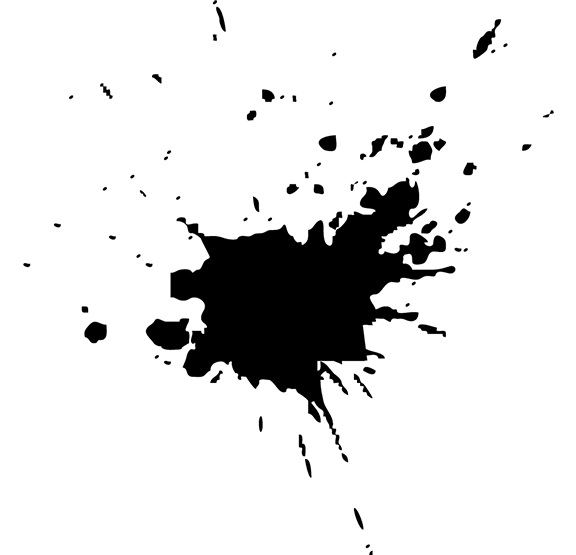
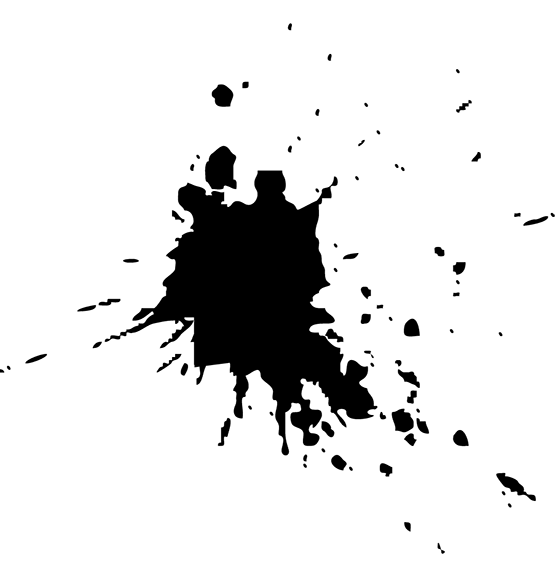
head and arm

diff --git a/styles/main.css b/styles/main.css
@@ -4,39 +4,38 @@
 }
 
 #splash1 {
-     z-index: -100;
+    z-index: -100;
     position: absolute;
     background-size: contain;
     background-repeat: no-repeat;
-    margin-top: 30px;
-    margin-left: 370px;
-    height: 25vh;
-    width: 25vh;
+    margin-top: -10px;
+    margin-left: 270px;
+    height: 250px;
+    width: 250px;
     background-image: url("./images/inksplat1.png");
-
 }
 
 #splash2 {
-     z-index: -100;
+    z-index: -100;
     position: absolute;
     background-size: contain;
     background-repeat: no-repeat;
-    margin-top: 300px;
-    margin-left: 430px;
-    height: 25vh;
-    width: 25vh;
+    margin-top: 240px;
+    margin-left: 400px;
+    height: 250px;
+    width: 250px;
     background-image: url("./images/inksplat2.png")
 }
 
 #splash3 {
-     z-index: -100;
+    z-index: -100;
     position: absolute;
     background-size: contain;
     background-repeat: no-repeat;
-    margin-top: 250px;
-    margin-left: 470px;
-    height: 45vh;
-    width: 65vh;
+    margin-top: 320px;
+    margin-left: 440px;
+    height: 450px;
+    width: 650px;
     background-image: url("./images/inksplat3.png")
 }
 
@@ -87,16 +86,40 @@
 }
 
 .playerPicture {
-    z-index:-10;
+    float: right;
     opacity: 0;
     background-size: contain;
     background-repeat: no-repeat;
-    height: 100%;
-    width: 50vw;
+    min-height: 600px;
+    height: 700px;
+    width: 500px;
+    min-width: 500px;
     position: absolute;
 }
 
+.headInfo {
+    border-width:10px;
+    display: inline-block;
+    border-style: dotted;
+    border-color: transparent;
+    border-radius: 100%;
+    z-index: 10;
+    position: absolute;
+}
+
+.armInfo {
+    border-width:10px;
+    display: inline-block;
+    border-style: dotted;
+    border-color: transparent;
+    border-radius: 100%;
+    z-index: 10;
+    position: absolute;
+}
+
+
 .playerName {
+    z-index: -100;
     top: -100vw;
     height: 100vh;
     width: 14vw;
@@ -107,9 +130,10 @@
 }
 
 .playerName2 {
-    top: 90vh;
-    right:-100vw;
-    height: 10vh;
+    z-index: 100;
+    top: 85vh;
+    right: -100vw;
+    height: 15vh;
     width: 30vw;
     float: right;
     background-size: contain;
@@ -163,32 +187,30 @@ body {
     margin: 0px;
 }
 
-
-/*
-
-
-
-
 #lineInfo {
-    border-bottom: 2px solid red;
-    border-right: 2px solid red;
+    border-width: 0px;
+    position:absolute;
+    z-index: -20;
+    border-width:0px;
+    border-bottom: solid transparent;
+    border-right: solid transparent;
     -moz-transform: skew(-45deg, 0deg);
     -webkit-transform: skew(-45deg, 0deg);
     transform: skew(-45deg, 0deg);
 }
 
-
-#hoverTarget {
-    border-style: dotted;
-    border-color: transparent;
-    border-radius: 100%;
-    z-index: 10;
-    position: absolute;
+.textBox{
+    margin-left:-10px;
+    display:none;
+    position:relative;
+    float:left;
+    border-bottom: 2px solid red;
+    border-right:2px solid red;
 }
 
-#text {
-    display: inline-block;
+.text {
     color: black;
+    text-shadow: -1px 0 white, 0 1px white, 1px 0 white, 0 -1px white;
     -moz-transform: skew(45deg, 0deg);
     -webkit-transform: skew(45deg, 0deg);
     transform: skew(45deg, 0deg);
@@ -207,7 +229,6 @@ body {
     animation-delay: 3s;
 }
 
-
 .hoverOver:hover + div {
     display: inline;
 }
@@ -216,12 +237,37 @@ body {
     -webkit-animation: borderDraw 1.5s;
     -moz-animation: borderDraw 1.5s;
     animation: borderDraw 1.5s;
-    animation-fill-mode: forwards;
+        animation-fill-mode: forwards;
     -webkit-animation-fill-mode: forwards;
-    -webkit-animation-iteration-count: infinite;
+        -webkit-animation-iteration-count: infinite;
     animation-iteration-count: infinite;
+
 }
 
-
-
-*/
+@-webkit-keyframes borderDraw {
+    0% {
+        border-top-color: red;
+        transition: width 1s ease-in-out;
+        transform: rotate(90deg);
+    }
+    25% {
+        border-top-color: red;
+        transition: width 1s ease-in-out;
+        transform: rotate(180deg);
+    }
+    50% {
+        border-left-color: red;
+        transition: height 1s ease-in-out;
+        transform: rotate(270deg);
+    }
+    75% {
+        border-bottom-color: red;
+        transition: width 1s ease-in-out;
+        transform: rotate(360deg);
+    }
+    99% {
+        border-right-color: red;
+        transition: width 1s ease-in-out;
+        transform: rotate(0deg);
+    }
+}

diff --git a/js/MainJS.js b/js/MainJS.js
@@ -1,11 +1,69 @@
 $(document).ready(function() {
+    var windowWidth = $(window).width()
+    $(window).resize(function() {
+        windowWidth = $(window).width()
+        console.log(windowWidth)
+    })
+
+
+
+
     $("#EliIcon").on('click', function() {
         $('.playerPicture').css("background-image", "url('./images/Eli.png')")
-        $('.playerPicture').animate({ opacity:1, left: '55vw' }, "slow")
+        $('.playerPicture').animate({ opacity: 1, left: '55vw' }, "slow")
         $('.playerName').css("background-image", "url('./images/name.png')")
         $('.playerName').animate({ top: 0 })
         $('.playerName2').css("background-image", "url('./images/EliName2.png')")
         $('.playerName2').animate({ right: 0 })
-    });
+
+        //*******************Head Info STARTS*******************************
+        // $('.headInfo').css({ "height": "100px", "width": "100px", "margin-left": "200px", "margin-top": "10px" })
+        // $('.headInfo').hover(
+        //     function() {
+        //         $(".headTextBox").css({ "display": "block", "margin-left": "-200px" })
+        //         $("#headText").css({ "display": "inline-block", "left": "-300px", "width": "200px" })
+        //         $('.headInfo').next().css({ "margin-left": "270px", "margin-top": "30px", "border-color": "red" })
+        //         $('.headInfo').next().animate({ "border-width": "12px", "width": windowWidth / 3 + "px", "right": "300px", "height": "40px" })
+        //     },
+        //     function() {
+        //         $("#headText").css("display", "none")
+        //         $(".headTextBox").css({ "display": "none" })
+        //         $('.headInfo').next().animate("opacity","1")
+        //         $('#lineInfo').css({ "left": "0px", "border-width": "0px", "width": "0px", "height": "0px" })
+        //     });
+
+        $('.headInfo').css({ "height": "100px", "width": "100px", "margin-left": "200px", "margin-top": "10px" })
+        $('.headInfo').hover(
+            function() {
+                var headOffset = $('.headInfo').offset()
+                console.log(headOffset.left)
+                $('.headTextBox').css({ "display": "block", "margin-left": "-200px" })
+                $("#headText").css({ "display": "inline-block", "left": "-300px", "width": "200px" })
+                $('.headInfo').next('div').css({ "margin-left": "200px", "margin-top": "30px", "border-color": "red"})
+                $('.headInfo').next('div').animate({ "left": "-450px","top":"50px", "border-width": "2px", "width": "450px", "height": "40px" })
+            },
+            function() {
+                $("#headText").css("display", "none")
+                $(".headTextBox").css({ "display": "none" })
+                $('.headInfo').next("div").animate({ "left": "0px", "border-width": "0px", "width": "0px", "height": "0px" })
+            });
+        //******************* ARM Info STARTS*******************************
+        $('.armInfo').css({ "height": "100px", "width": "100px", "margin-left": "-10px", "margin-top": "177px" })
+        $('.armInfo').hover(
+            function() {
+                $('.armTextBox').css({ "display": "block", "margin-left": "-200px" })
+                $("#armText").css({ "display": "inline-block", "left": "-900px", "width": "200px" })
+                $('.armInfo').next('div').css({ "margin-left": "250px", "margin-top": "277px", "border-color": "red" })
+                $('.armInfo').next('div').animate({ "left": "-600px", "border-width": "2px", "width": "350px", "height": "40px" })
+            },
+            function() {
+                $("#armText").css("display", "none")
+                $(".armTextBox").css({ "display": "none" })
+                $('.armInfo').next('div').animate({ "left": "0px", "border-width": "0px", "width": "0px", "height": "0px" })
+
+            });
+
+
+    })
 
 })

diff --git a/browser/index.html b/browser/index.html
@@ -12,13 +12,34 @@
 
 <body>
     <div class="wholeScreen">
-
         <div class="playerPicture">
+
+            <div class="headInfo hoverOver"></div>
+            <div id="lineInfo">
+                <div class="headTextBox textBox">
+                    <p class="text" id="headText">
+                        2004 1st Round 1st Pick</br> College: Ole Miss</br>Tied for all time 6th Highest QB Wonderlic Score
+                    </p>
+                </div>
+            </div>
+
+            <div class="armInfo hoverOver"></div>
+            <div id="lineInfo">
+                <div class="armTextBox textBox">
+                    <p class="text" id="armText">
+                        2004 1st Round 1st Pick</br> College: Ole Miss</br>Tied for all time 6th Highest QB Wonderlic Score
+                    </p>
+                </div>
+            </div>
+
+            <div class="bodyInfo hoverOver"></div>
+            <div class="legInfo hoverOver"></div>
         </div>
         <div class="playerName"></div>
         <div class="playerName2"></div>
         <div class="roster">
-            <img class="playerIcon" id="EliIcon" src="./images/Eliicon.png"></img></br>
+            <img class="playerIcon" id="EliIcon" src="./images/Eliicon.png"></img>
+            </br>
             <img class="playerIcon" id="OdellIcon" src="./images/Odellicon.png">
             <img class="playerIcon" id="CruzIcon" src="./images/Cruzicon.png">
             <img class="playerIcon" id="ShepardIcon" src="./images/Shepardicon.png"></br>
